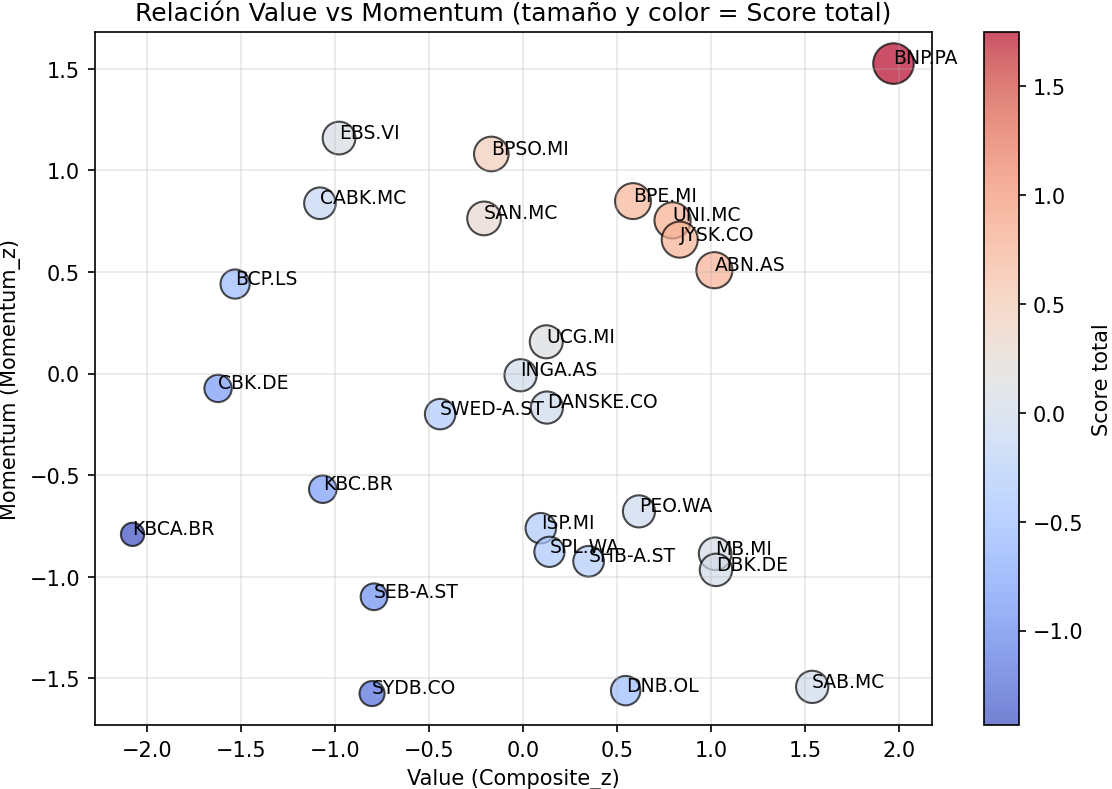
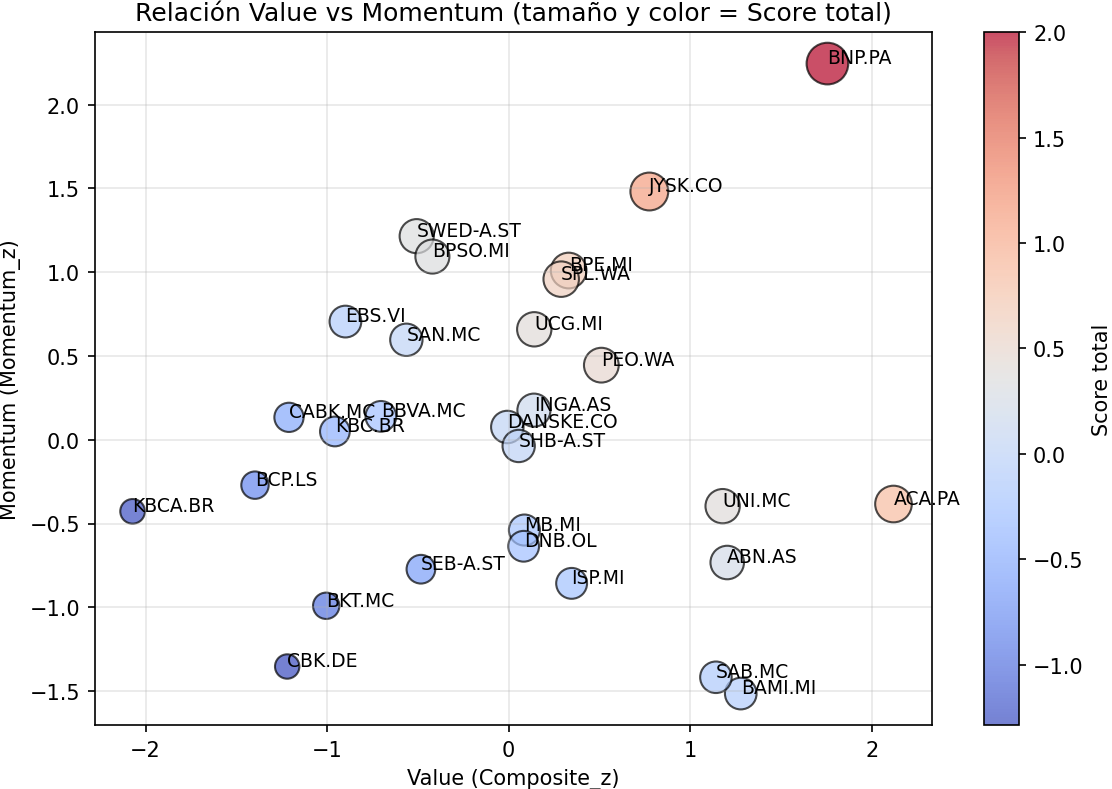
minor changes

diff --git a/ValueMomentum/ValueMomentum.py b/ValueMomentum/ValueMomentum.py
@@ -965,6 +965,9 @@ class valueMomentumClass:
         #plt.show(block=False)
         plt.close(fig)
         
+        enviar_png_telegram("burbujas_finance.png", caption="STOCXX scatter plot")
+
+        
 
     def graficar_ranking(self, df_final):
         
@@ -994,7 +997,10 @@ class valueMomentumClass:
             
         fig.savefig("score_finance.png", dpi=150, bbox_inches="tight", pad_inches=0.1)
         #plt.show(block=False)
+        
         plt.close(fig)     
+        
+        enviar_png_telegram("score_finance.png", caption="STOCXX Final score plot")
  
     
 #################################################### Clase FIN
@@ -1016,7 +1022,6 @@ if __name__ == '__main__':
     b -- 
     c -- 
 
-    
     """   
 
     print ('version(J): ',versionVersion) 
@@ -1071,8 +1076,8 @@ if __name__ == '__main__':
     objEstra.graficar_ranking(df_final)
         
     
-    enviar_png_telegram("C://Users//jjjimenez//Documents//quant//zPRODUCCION//300_ValueMomentum//burbujas_finance.png", caption="STOCXX scatter plot")
-    enviar_png_telegram("C://Users//jjjimenez//Documents//quant//zPRODUCCION//300_ValueMomentum//score_finance.png", caption="STOCXX Final score plot")
+    #enviar_png_telegram("C://Users//jjjimenez//Documents//quant//zPRODUCCION//300_ValueMomentum//burbujas_finance.png", caption="STOCXX scatter plot")
+    #enviar_png_telegram("C://Users//jjjimenez//Documents//quant//zPRODUCCION//300_ValueMomentum//score_finance.png", caption="STOCXX Final score plot")
 
     #######################################################################
     #  Decision de compra
